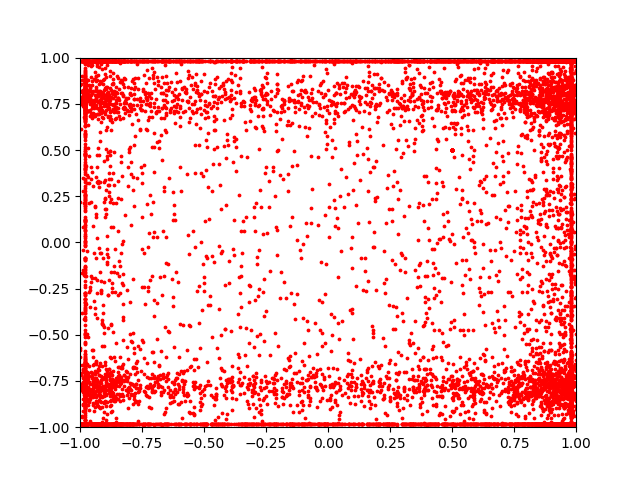
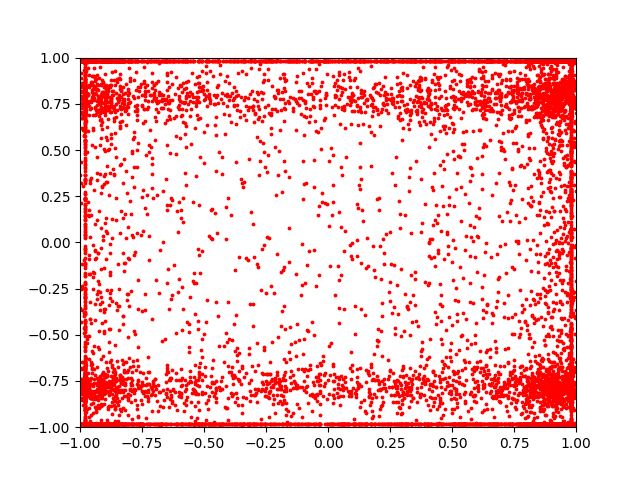
Sall changes

Changed region(s): [[0.125, 0.125, 0.9062, 0.9062]]

diff --git a/src/particle_model_oo.py b/src/particle_model_oo.py
@@ -4,7 +4,6 @@
 A first, intuitive implementation.
 The code spits out results, but haven't checked anything (not reliable...)
 """
-
 import math as m
 import os
 import sys
@@ -22,35 +21,34 @@ CURRENT_DIR = os.path.dirname(CURRENT_FILE)
 PROJECT_DIR = os.path.dirname(CURRENT_DIR)
 OUTPUT_DIR = os.path.join(PROJECT_DIR, "results")
 
-
 class Domain:
-    def __init__(self, xmin=-1, xmax=1, ymin=-1, ymax=1):
-        self.xmin = xmin
-        self.xmax = xmax
-        self.ymin = ymin
+    def __init__(self, xmin=-1, xmax=1, ymin=-1, ymax=1, min_factor=0.01):
+        self.xmin : float = xmin
+        self.xmax : float = xmax
+        self.ymin : float = ymin
         self.ymax = ymax
-        self.minDx = 0.01 * (self.xmax - self.xmin)
-        self.minDy = 0.01 * (self.ymax - self.ymin)
-
+        self.minDx = min_factor * (self.xmax - self.xmin)
+        self.minDy = min_factor * (self.ymax - self.ymin)
 
 def depth_func(x, y=None):
     return 15 + 5 * x
-
 
 def dispersion_coeffs(x, y):
     """
     Returns a list of dispersion coefficients (arrays) for all input locations
     """
-    return [1 + np.cos(np.pi * x), 1 + np.cos(np.pi * y)]
-
+    Dx = 1 + np.cos(np.pi * x)
+    Dy = 1 + np.cos(np.pi * y)
+    return [Dx, Dy]
 
 def dispersion_der(x, y):
     """
     Returns the dispersion coefficient derivatives 
     :return: list of dispersion coefficient derivatives [dDx/dx, dDy/dy]
     """
-    return [- np.pi * np.sin(np.pi * x), - np.pi * np.cos(np.pi * y)]
-
+    dDxdx = - np.pi * np.sin(np.pi * x)
+    dDydy = - np.pi * np.cos(np.pi * y)
+    return [dDxdx, dDydy]
 
 def depth_avgd_disp_der(x, y):
     """
@@ -59,12 +57,10 @@ def depth_avgd_disp_der(x, y):
 
     :return: list of the derivative terms [d(HDx)/dx/H, d(HDy)/dy/H]
     """
-    # TODO: Refactor
     depth = depth_func(x, y)
     x_comp = 5 * (1 + np.cos(np.pi * x) - (3 + x) * np.sin(np.pi * x)) / depth
     y_comp = -5 * np.pi * (3 + x) * np.sin(np.pi * y) / depth
     return [x_comp, y_comp]
-
 
 def velocities(x, y):
     """
@@ -75,7 +71,6 @@ def velocities(x, y):
     v = x * (1 - y * y) / depth
     return u, v
 
-
 def velocities_der(x, y):
     """
     Calculate water velocity at specified location(s)
@@ -84,7 +79,6 @@ def velocities_der(x, y):
     dudx = 2 * x * y / depth
     dvdx = -2 * x * y / depth
     return dudx, dvdx
-
 
 def wiener_steps(dt, n):
     """
@@ -315,7 +309,7 @@ class ParticleSimulation():
 
 
 if __name__ == "__main__":
-    simul = ParticleSimulation(n_particles=10000, n_steps=1000, end_time=1000, scheme="euler")
+    simul = ParticleSimulation(n_particles=10000, n_steps=100000, end_time=1000, scheme="euler")
     simul.run(show_plot=False, plot_name=True, animation=False)
 
     plt.show()
